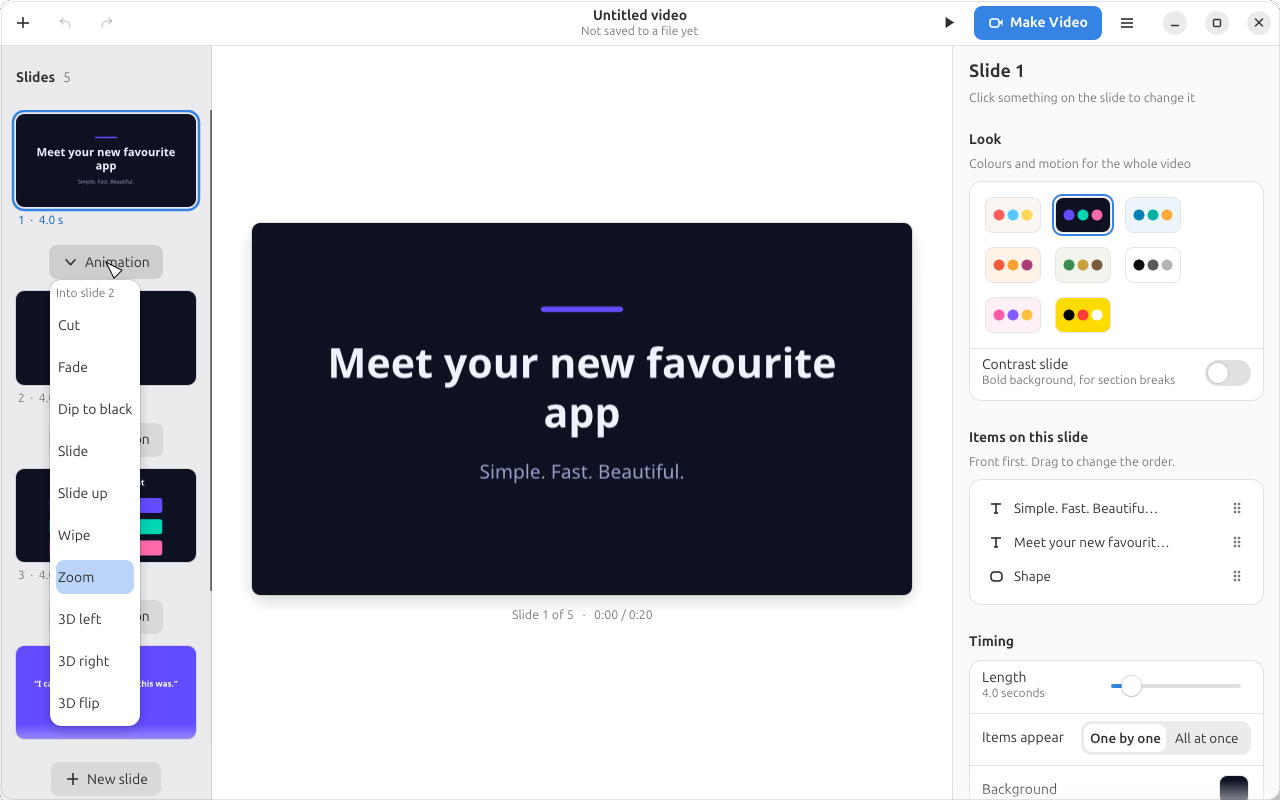
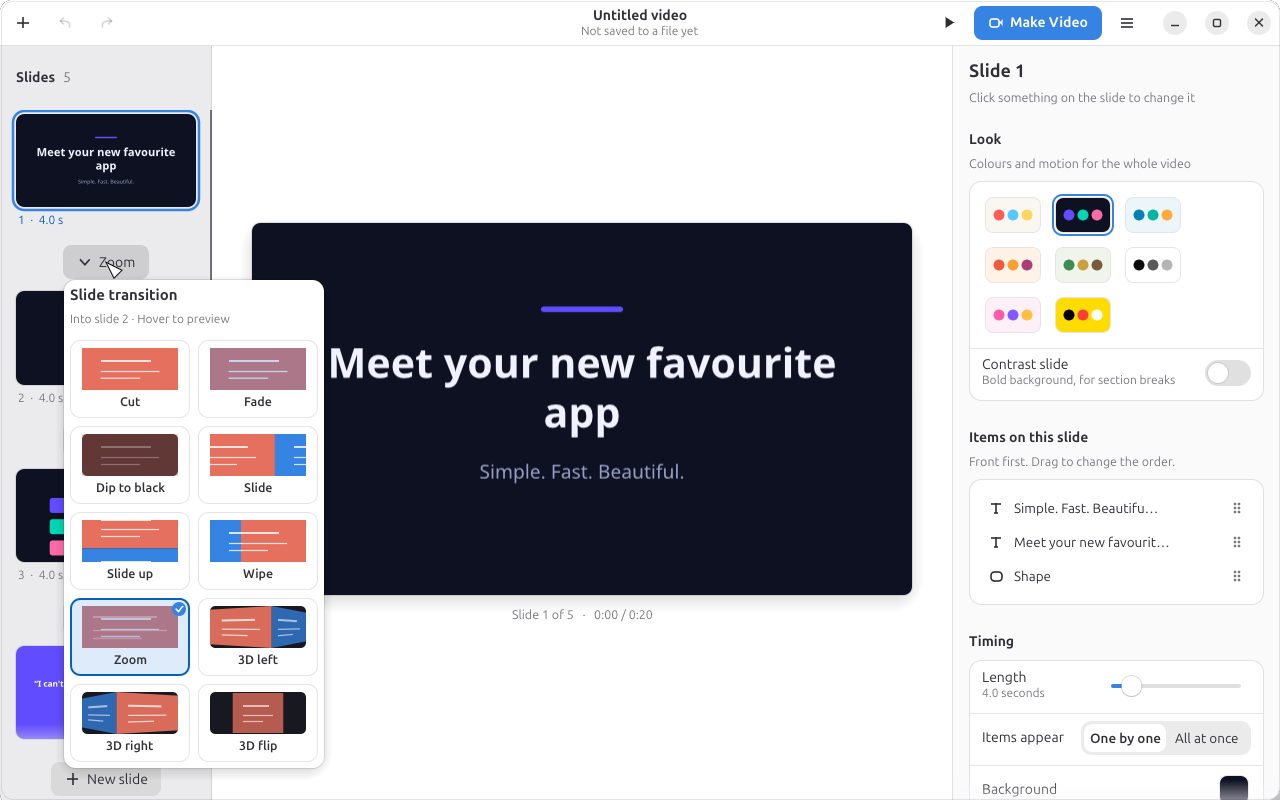
Show visual transition tiles and selected transition names

Changed region(s): [[0.0312, 0.3125, 0.25, 0.9688]]

diff --git a/crates/kn-ui/src/transitions.rs b/crates/kn-ui/src/transitions.rs
@@ -1,0 +1,137 @@
+//! Compact, illustrated transition choices. Hover previews use simple slide
+//! diagrams; selecting a tile plays the actual transition in the editor.
+
+use crate::theme::{self, palette};
+use egui::{Align2, Color32, FontId, Pos2, Rect, Stroke, Vec2, pos2, vec2};
+use kn_model::Transition;
+
+pub(crate) fn picker(ui: &mut egui::Ui, current: Transition) -> Option<Transition> {
+    let mut chosen = None;
+    ui.spacing_mut().item_spacing = Vec2::splat(8.0);
+    egui::Grid::new("transition-tiles").num_columns(2).spacing(Vec2::splat(8.0)).show(ui, |ui| {
+        for (i, transition) in Transition::ALL.into_iter().enumerate() {
+            let p = palette(ui.ctx());
+            let selected = transition == current;
+            let button = egui::Button::new("")
+                .fill(if selected { p.accent_bg.gamma_multiply(0.16) } else { p.card })
+                .stroke(Stroke::new(if selected { 2.0 } else { 1.0 }, if selected { p.accent } else { p.border }))
+                .corner_radius(10);
+            let response = ui.add_sized([120.0, 78.0], button);
+            response.widget_info(|| egui::WidgetInfo::selected(egui::Role::Button, true, selected, transition.name()));
+            let r = response.rect;
+            let preview = Rect::from_min_size(r.min + vec2(12.0, 8.0), vec2(96.0, 42.0));
+            let start_id = response.id.with("preview-start");
+            let progress = if response.hovered() || response.has_focus() {
+                let now = ui.input(|input| input.time);
+                let start = ui.ctx().data_mut(|data| *data.get_temp_mut_or_insert_with(start_id, || now));
+                ui.ctx().request_repaint_after(std::time::Duration::from_millis(30));
+                (((now - start) % 1.8 - 0.2) / 1.0).clamp(0.0, 1.0) as f32
+            } else {
+                ui.ctx().data_mut(|data| data.remove::<f64>(start_id));
+                0.38
+            };
+            preview_transition(ui, preview, transition, progress * progress * (3.0 - 2.0 * progress));
+            ui.painter().text(
+                pos2(r.center().x, r.bottom() - 17.0),
+                Align2::CENTER_CENTER,
+                transition.name(),
+                FontId::new(12.5, theme::semibold()),
+                p.fg,
+            );
+            if selected {
+                let c = pos2(r.right() - 11.0, r.top() + 11.0);
+                ui.painter().circle_filled(c, 7.0, p.accent_bg);
+                ui.painter().line_segment([c + vec2(-3.0, 0.0), c + vec2(-0.5, 2.5)], Stroke::new(1.5, p.accent_fg));
+                ui.painter().line_segment([c + vec2(-0.5, 2.5), c + vec2(3.5, -2.5)], Stroke::new(1.5, p.accent_fg));
+            }
+            if response.clicked() {
+                chosen = Some(transition);
+            }
+            if i % 2 == 1 {
+                ui.end_row();
+            }
+        }
+    });
+    chosen
+}
+
+fn preview_transition(ui: &egui::Ui, r: Rect, kind: Transition, t: f32) {
+    let painter = ui.painter().with_clip_rect(r.intersect(ui.clip_rect()));
+    let point = |x: f32, y: f32| pos2(r.left() + x * r.width(), r.top() + y * r.height());
+    let rectangle = |x: f32, y: f32, w: f32, h: f32| [point(x, y), point(x + w, y), point(x + w, y + h), point(x, y + h)];
+    let old = Color32::from_rgb(230, 112, 94);
+    let new = palette(ui.ctx()).accent_bg;
+    painter.rect_filled(r, 5, Color32::from_rgb(24, 24, 32));
+    let face = |quad: [Pos2; 4], color: Color32, alpha: f32, clip: Rect| {
+        if alpha <= 0.0 {
+            return;
+        }
+        let painter = painter.with_clip_rect(clip.intersect(painter.clip_rect()));
+        painter.add(egui::Shape::convex_polygon(quad.to_vec(), color.gamma_multiply(alpha), Stroke::NONE));
+        // A title and two lines make each coloured face read as a slide.
+        for (y, end, width) in [(0.32, 0.72, 2.0), (0.56, 0.80, 1.2), (0.72, 0.60, 1.2)] {
+            let left = quad[0].lerp(quad[3], y);
+            let right = quad[1].lerp(quad[2], y);
+            painter.line_segment([left.lerp(right, 0.20), left.lerp(right, end)], Stroke::new(width, Color32::WHITE.gamma_multiply(alpha * 0.8)));
+        }
+    };
+    let full = rectangle(0.0, 0.0, 1.0, 1.0);
+    match kind {
+        Transition::Cut => face(full, if t < 0.5 { old } else { new }, 1.0, r),
+        Transition::Fade => {
+            face(full, old, 1.0, r);
+            face(full, new, t, r);
+        }
+        Transition::Dip => {
+            face(full, old, (1.0 - 2.0 * t).max(0.0), r);
+            face(full, new, (2.0 * t - 1.0).max(0.0), r);
+        }
+        Transition::Slide => {
+            face(rectangle(-t, 0.0, 1.0, 1.0), old, 1.0, r);
+            face(rectangle(1.0 - t, 0.0, 1.0, 1.0), new, 1.0, r);
+        }
+        Transition::SlideUp => {
+            face(rectangle(0.0, -t, 1.0, 1.0), old, 1.0, r);
+            face(rectangle(0.0, 1.0 - t, 1.0, 1.0), new, 1.0, r);
+        }
+        Transition::Wipe => {
+            face(full, old, 1.0, r);
+            face(full, new, 1.0, Rect::from_min_max(r.min, point(t, 1.0)));
+        }
+        Transition::Zoom => {
+            face(full, old, 1.0, r);
+            let extra = 0.2 * (1.0 - t);
+            face(rectangle(-extra, -extra, 1.0 + 2.0 * extra, 1.0 + 2.0 * extra), new, t, r);
+        }
+        Transition::TurnLeft | Transition::TurnRight => {
+            let a = t * std::f32::consts::FRAC_PI_2;
+            let (leaving, arriving) = (a.cos().max(0.0), a.sin());
+            let joint = leaving / (leaving + arriving);
+            let mirror = |q: [Pos2; 4]| {
+                if kind == Transition::TurnRight {
+                    let q = q.map(|v| pos2(r.left() + r.right() - v.x, v.y));
+                    [q[1], q[0], q[3], q[2]]
+                } else {
+                    q
+                }
+            };
+            face(
+                mirror([point(0.0, 0.18 * arriving), point(joint, 0.0), point(joint, 1.0), point(0.0, 1.0 - 0.18 * arriving)]),
+                old,
+                0.5 + 0.5 * leaving,
+                r,
+            );
+            face(
+                mirror([point(joint, 0.0), point(1.0, 0.18 * leaving), point(1.0, 1.0 - 0.18 * leaving), point(joint, 1.0)]),
+                new,
+                0.5 + 0.5 * arriving,
+                r,
+            );
+        }
+        Transition::Flip => {
+            let across = (t * std::f32::consts::PI).cos();
+            let w = across.abs();
+            face(rectangle((1.0 - w) / 2.0, 0.05 * (1.0 - w), w, 0.9 + 0.1 * w), if across > 0.0 { old } else { new }, 0.5 + 0.5 * w, r);
+        }
+    }
+}

diff --git a/crates/kn-ui/src/strip.rs b/crates/kn-ui/src/strip.rs
@@ -7,7 +7,6 @@ use crate::icons::{self, Icon};
 use crate::theme::{self, palette};
 use egui::{RichText, Sense, Stroke, Vec2};
 use kn_engine::Command;
-use kn_model::Transition;
 
 const THUMB_WIDTH: f32 = 180.0;
 
@@ -63,16 +62,16 @@ impl KinettoApp {
                 ui.set_width(THUMB_WIDTH);
                 let current = self.project().slides[index].transition;
                 let label = format!("Animation between slides {} and {}", index, index + 1);
-                let response = adw::button(ui, Some(Icon::Down), "Animation", Kind::Normal);
+                let response = adw::button(ui, Some(Icon::Down), current.name(), Kind::Normal);
                 response.widget_info(|| egui::WidgetInfo::labeled(egui::Role::Button, true, &label));
                 let response = response.on_hover_text(format!("{label}: {}", current.name()));
-                egui::Popup::menu(&response).width(180.0).show(|ui| {
-                    ui.label(RichText::new(format!("Into slide {}", index + 1)).size(12.0).color(palette(ui.ctx()).dim));
-                    for transition in Transition::ALL {
-                        if ui.selectable_label(current == transition, transition.name()).clicked() {
-                            self.choose_transition(index, transition);
-                            ui.close();
-                        }
+                egui::Popup::menu(&response).width(264.0).show(|ui| {
+                    ui.label(RichText::new("Slide transition").family(theme::bold()).size(15.0));
+                    ui.label(RichText::new(format!("Into slide {} · Hover to preview", index + 1)).size(12.0).color(palette(ui.ctx()).dim));
+                    ui.add_space(6.0);
+                    if let Some(transition) = crate::transitions::picker(ui, current) {
+                        self.choose_transition(index, transition);
+                        ui.close();
                     }
                 });
             });

diff --git a/crates/kn-ui/src/lib.rs b/crates/kn-ui/src/lib.rs
@@ -19,6 +19,7 @@ mod start;
 mod strip;
 mod theme;
 mod timeline;
+mod transitions;
 
 use canvas::VelloCanvas;
 use problem::{Fix, Problem};
